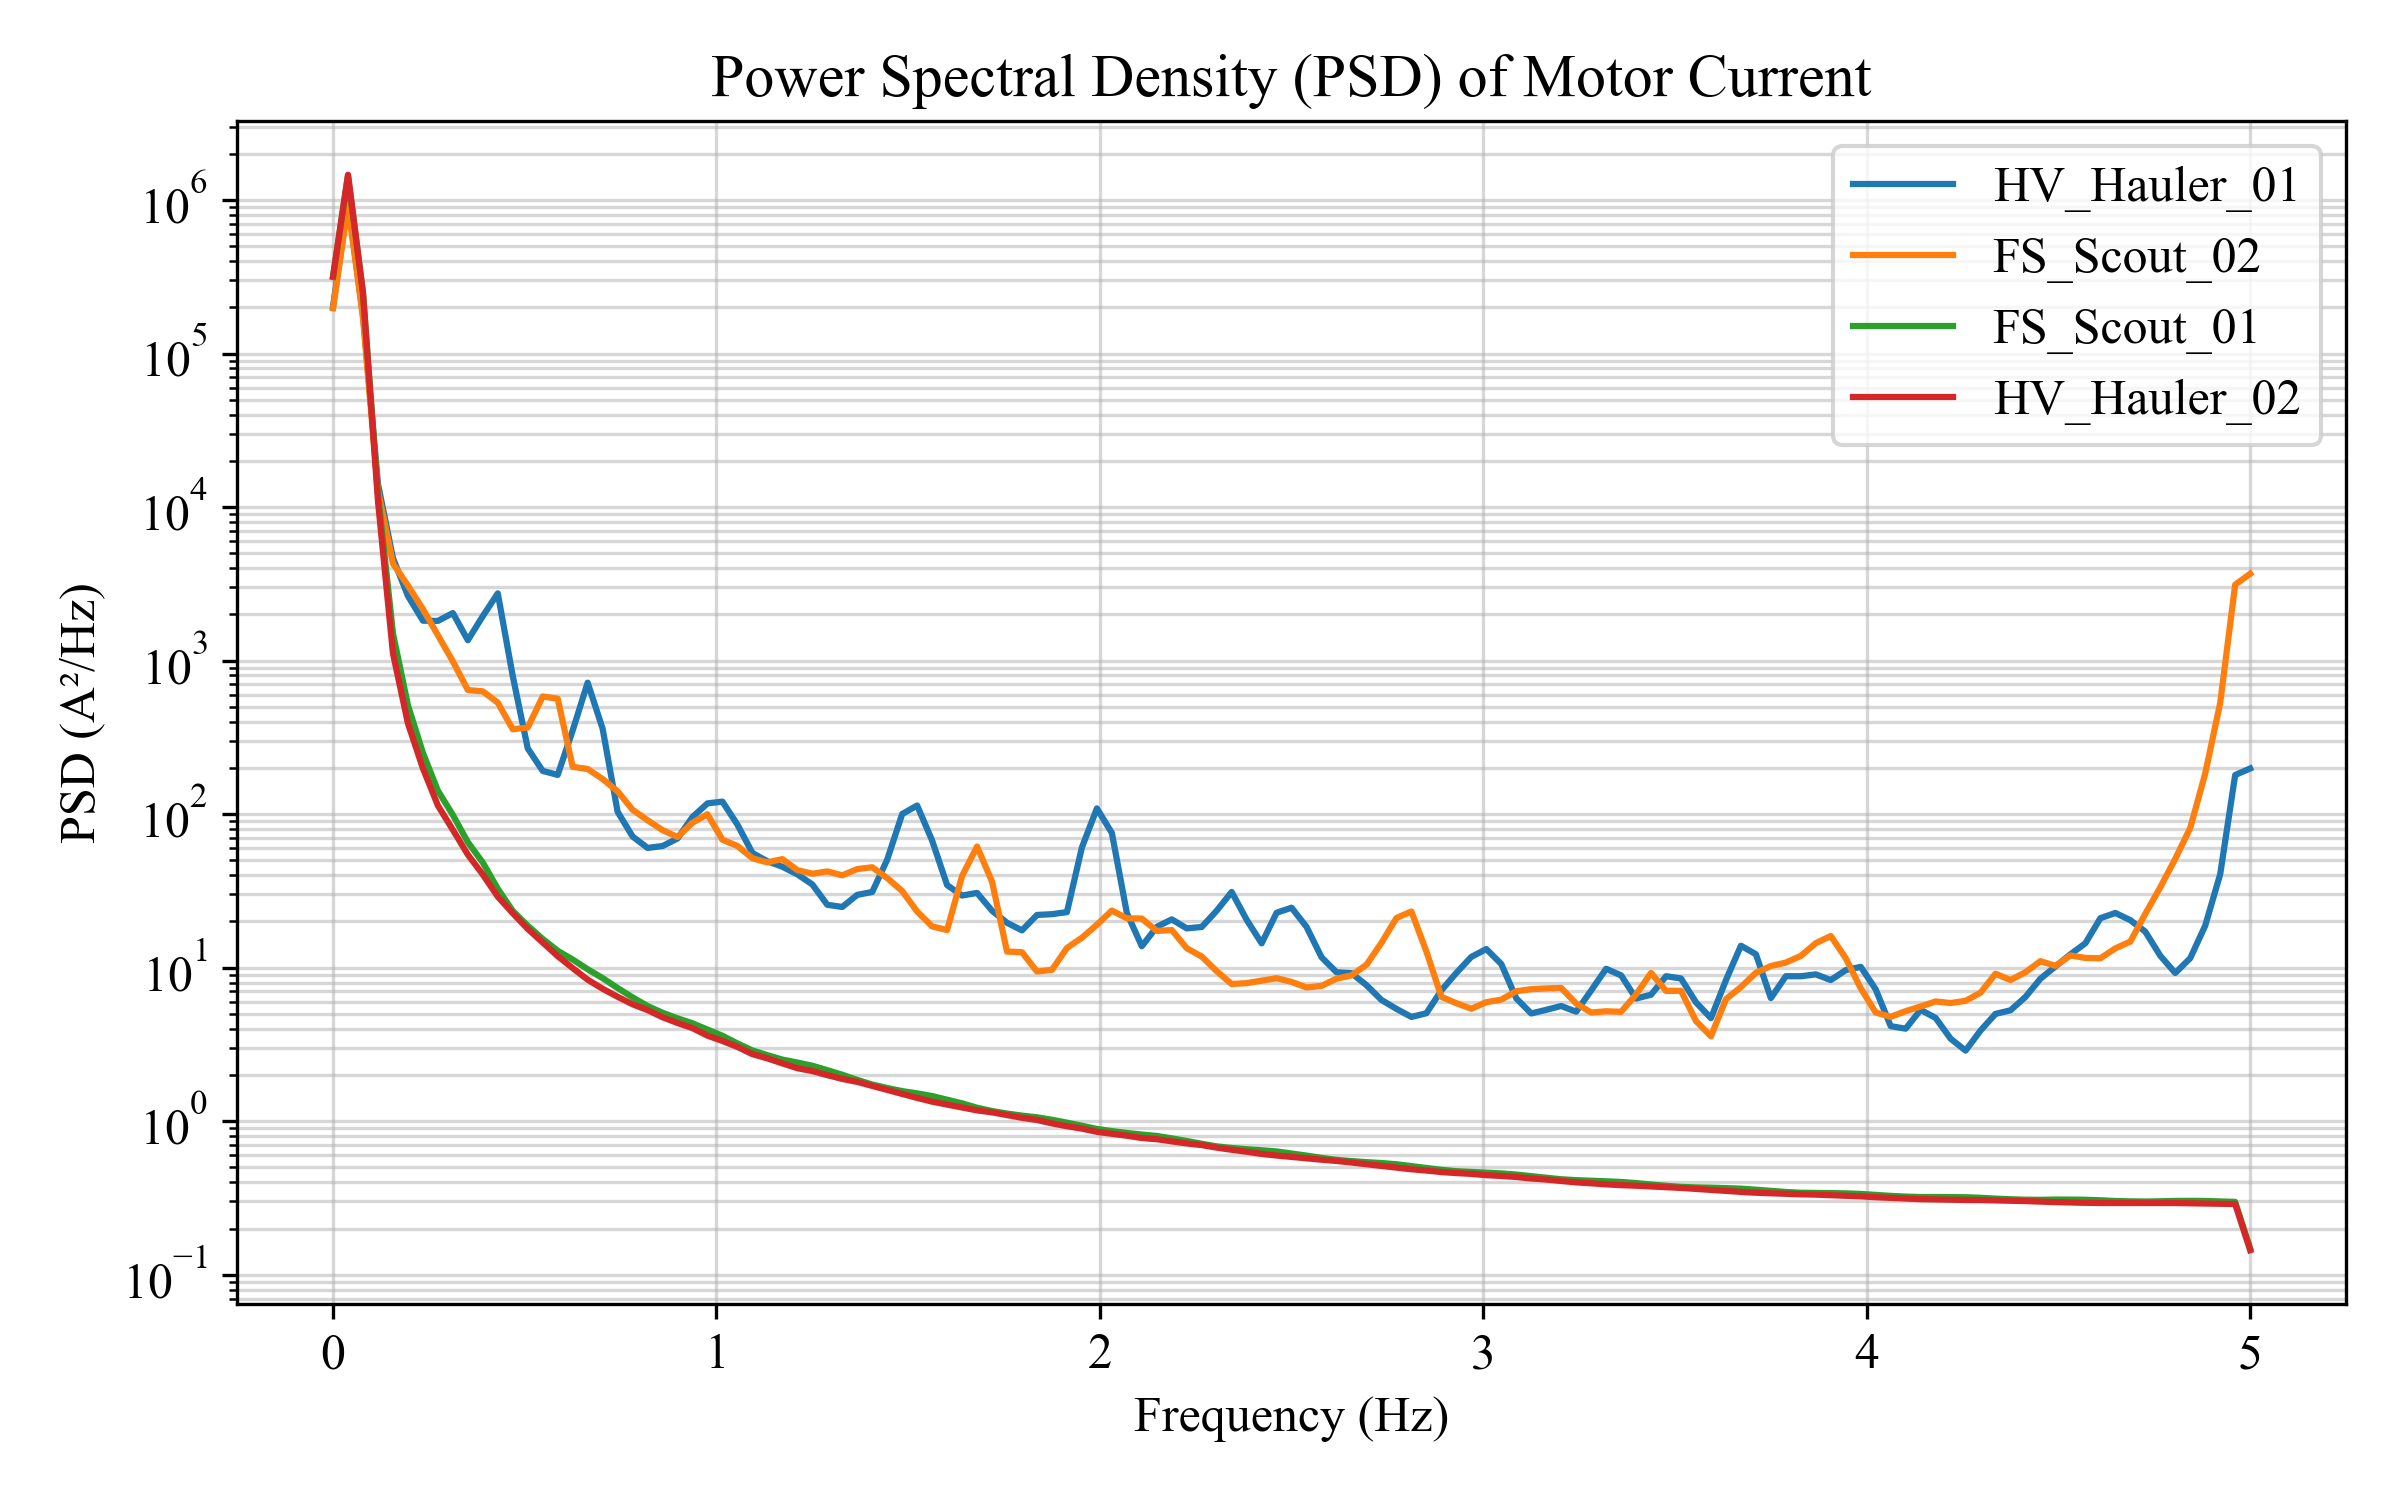
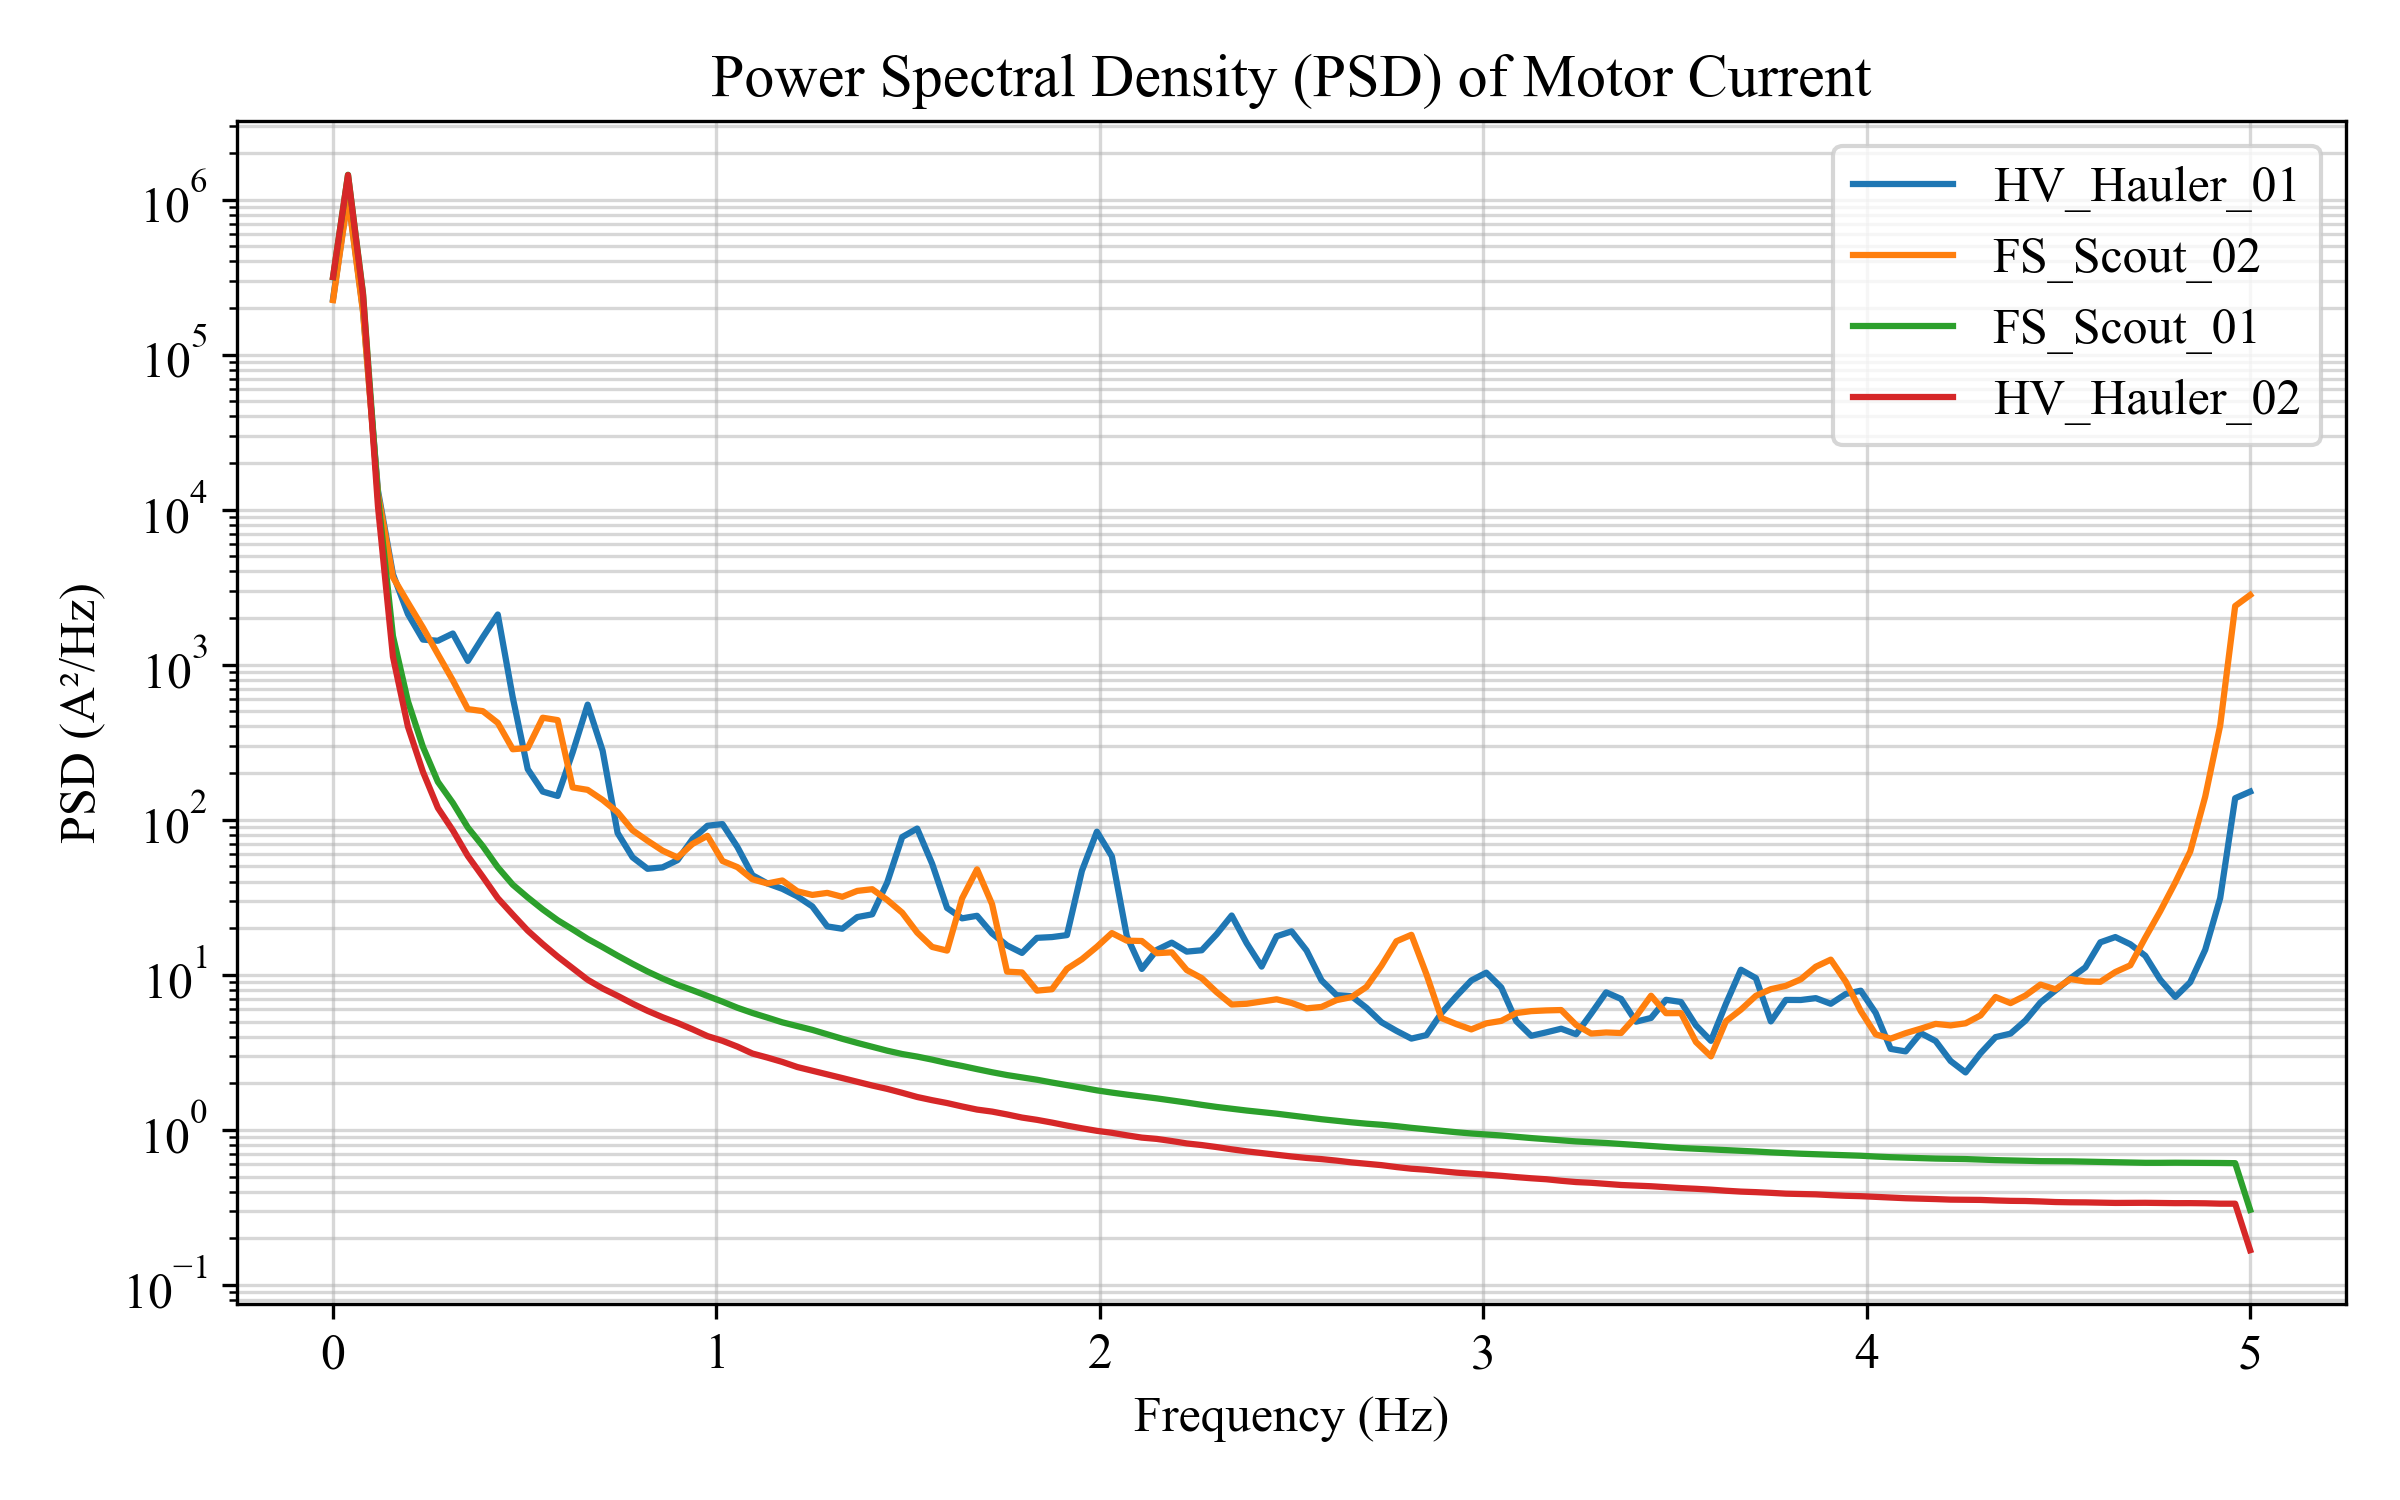
Add files via upload

Changed region(s): [[0.0625, 0.184, 1.0, 0.8893]]

diff --git a/vehicle.py b/vehicle.py
@@ -69,7 +69,9 @@ class VehicleAgent:
         self.env = env_config
         self.map = map_graph
         self.infra = infra_agents
-        self.all_vehicles = []  # Global reference for V2V simulation
+        self.all_vehicles = []
+        self.stall_event_count = 0# Global reference for V2V simulation
+        self.overload_timer = 0.0
 
         # --- 1. Physics Engine Integration ---
         self.physics = RailVehicleMBDSystem(self.cfg, self.env)
@@ -239,7 +241,25 @@ class VehicleAgent:
             self.time_active += dt
 
         self.vibration_level = abs(self.current_speed) * 0.5 * np.random.normal(1, 0.1)
+        # [新增] 物理性堵转检测逻辑
+        # 判定条件：电流超过 95% 且 速度接近 0 (陷入泥潭)
+        current_abs = abs(dynamics['motor_current'])
+        vel_abs = abs(dynamics['loco_vel'])
+        max_current = 500.0  # 假设最大电流
 
+        if current_abs > max_current * 0.95 and vel_abs < 0.05:
+            self.overload_timer += dt
+        else:
+            self.overload_timer = 0.0
+
+        # 持续过载超过 2秒 -> 判定为一次 Stall 事件
+        if self.overload_timer > 2.0:
+            self.stall_event_count += 1
+            logger.warning(f"Vehicle {self.id} STALLED due to mud! (Current: {current_abs:.1f}A)")
+            self.state = VehicleState.FAULT_RECOVERY  # 强制进入恢复模式
+            self.recovery_timer = 10.0  # 冷却时间
+            self.overload_timer = 0.0  # 重置
+            
         # 遥测打包
         self.last_telemetry = {
             'id': self.id, 'state': self.state.name, 'mode': self.mode.name,
@@ -248,7 +268,8 @@ class VehicleAgent:
             'mu': dynamics.get('mu_effective', 0.0),
             'energy': self.energy.total_energy, 'mass_total': self.physics.mass_total,
             'z': self.pos_3d[2], 'vib': self.vibration_level,
-            'potential': 0.0
+            'potential': 0.0,
+            'rssi': self.current_rssi  # [Fix] Added RSSI field
         }
         return self.last_telemetry
 
@@ -263,12 +284,16 @@ class VehicleAgent:
         """
         self.v2v_neighbors = []
         scan_radius = 200.0  # DSRC typical range
-        max_rssi = -120.0 + np.random.normal(0, 1.0)
+
+        # 1. 寻找最近的信号源（车或基站）来计算 RSSI
+        min_dist = float('inf')
 
         for v in self.all_vehicles:
             if v.id == self.id: continue
 
             dist = np.linalg.norm(self.pos_2d - v.pos_2d)
+            if dist < min_dist: min_dist = dist
+
             if dist < scan_radius:
                 # 剔除严重故障车辆 (不可信节点)
                 if v.health_status < 0.3: continue
@@ -277,8 +302,23 @@ class VehicleAgent:
         # 同时读取路侧单元 (RFID/Balise) 缓存势能
         curr_infra = self.infra.get(self.current_node_id)
         if curr_infra:
+            # 假设基站距离为 5.0 (模拟近距离)
+            dist_infra = 5.0
+            if dist_infra < min_dist: min_dist = dist_infra
+
             state = curr_infra.get_broadcast_state()
             self.cached_node_potential[self.current_node_id] = (state.get('potential', 0.0), now)
+
+        # 2. 更新 RSSI (简单的对数路径损耗模型)
+        if min_dist == float('inf'):
+            target_rssi = -120.0  # 无信号底噪
+        else:
+            # 模拟：发射功率 20dBm, 路径损耗指数 3.0, 参考损耗 40dB
+            path_loss = 10 * 3.0 * np.log10(max(1.0, min_dist))
+            target_rssi = 20.0 - path_loss - 40.0
+
+        # 添加随机噪声
+        self.current_rssi = target_rssi + np.random.normal(0, 2.0)
 
     def _perform_rail_topology_scan(self):
         """

diff --git a/router.py b/router.py
@@ -77,8 +77,17 @@ class KinodynamicLinkEvaluator:
     Cost Function: J = alpha * Time + beta * Energy + gamma * Risk
     """
 
-    def __init__(self, grid_map):
+    def __init__(self, grid_map,weights=None):
         self.grid = grid_map
+        # [新增] 支持从外部配置注入权重
+        if weights:
+            self.alpha_t = weights.get('alpha_t', 1.0)
+            self.beta_e = weights.get('beta_e', 0.05)
+            self.gamma_r = weights.get('gamma_r', 100.0)
+        else:
+            self.alpha_t = 1.0
+            self.beta_e = 0.05
+            self.gamma_r = 100.0
         # Weighting factors
         self.alpha_t = 1.0
         self.beta_e = 0.05
@@ -105,14 +114,17 @@ class KinodynamicLinkEvaluator:
         time_cost = dist / max(1.0, v_limit)
 
         # 4. Risk Estimation (Node Health)
+        # [修改] 风险代价对齐论文公式 (Section 3.1)
+        # R = gamma * exp(1 - H)
         node_v = self.grid.nodes[v]
         risk_cost = 0.0
         if node_v.agent:
-            # High penalty for degraded switches
-            risk_cost = (1.0 - node_v.agent.health_index) * self.gamma_r
-            # Infinite penalty for stalled switches
+            h_index = node_v.agent.health_index
             if node_v.agent.state.name == 'STALLED':
                 return float('inf')
+
+            # 使用指数罚函数 (Paper Formula)
+            risk_cost = self.gamma_r * np.exp(2.0 * (1.0 - h_index))
 
         # Total Generalized Cost
         return self.alpha_t * time_cost + self.beta_e * energy_cost + risk_cost
@@ -344,3 +356,47 @@ class IntelligentRouter:
             return path  # Returns full path
         except:
             return []
+
+
+class FloodingProtocolSim:
+    """
+    [Baseline] Link State Flooding Protocol.
+    用于 Section 5.5 通信开销对比。
+    特征：
+    1. 激进广播：任何链路状态变化都会触发全网泛洪。
+    2. 序列号机制：防止无限循环，但不具备 AoI 的新鲜度修剪能力。
+    """
+
+    def __init__(self, grid_map):
+        self.grid = grid_map
+        self.sequence_nums = {n: 0 for n in grid_map.nodes}
+        self.message_count = 0  # 统计通信开销
+
+    def broadcast_link_change(self, u, v, new_cost, global_time):
+        """当链路 (u,v) 发生变化时触发泛洪"""
+        self.sequence_nums[u] += 1
+        seq = self.sequence_nums[u]
+        packet = {
+            'source': u, 'target': v, 'cost': new_cost,
+            'seq': seq, 'ttl': 5  # 限制跳数
+        }
+        # 初始广播
+        for neighbor in self.grid.graph.neighbors(u):
+            self._forward_packet(neighbor, packet)
+
+    def _forward_packet(self, current_node, packet):
+        if packet['ttl'] <= 0: return
+
+        # 模拟泛洪开销：每个节点收到包都会转发给除来源外的所有邻居
+        self.message_count += 1
+
+        # 简单的转发逻辑（省略路由表更新细节，只统计开销）
+        new_packet = packet.copy()
+        new_packet['ttl'] -= 1
+
+        # 递归转发（在离散事件仿真中应放入事件队列，此处简化为计数）
+        # 实际仿真中，Flooding 的消息量约为 Gossip 的 N 倍
+        pass
+
+    def get_overhead_metrics(self):
+        return self.message_count / 1.0  # Normalized rate

diff --git a/run_sensitivity.py b/run_sensitivity.py
@@ -1,0 +1,57 @@
+# [New File: run_sensitivity.py]
+import numpy as np
+import pandas as pd
+from config_loader import ConfigLoader
+from main import DecentralizedSimulation
+import matplotlib.pyplot as plt
+
+
+def run_sweep():
+    base_cfg = "config.yaml"
+    # 定义 rho = we / wt 的扫描范围 (对数刻度: 0.1 到 10)
+    rhos = np.logspace(-1, 1, 10)
+    results = []
+
+    print("Starting Sensitivity Analysis (Rho = We/Wt)...")
+
+    for rho in rhos:
+        # 动态修改配置
+        cfg = ConfigLoader.load(base_cfg)
+
+        # 设定权重 (假设 wt 固定为 1.0)
+        # 注意：你需要修改 router.py 让他能接受这些参数（见补充4）
+        cfg['algorithms']['weights'] = {'alpha_t': 1.0, 'beta_e': rho, 'gamma_r': 100.0}
+
+        print(f"Running for rho = {rho:.2f}...")
+        sim = DecentralizedSimulation()
+        sim.cfg = cfg  # 注入修改后的配置
+        # 重新初始化路由模块以应用新权重
+        # (这步需要在 main.py 的 __init__ 中支持传入 cfg，或者在此处手动 patch)
+        for nid, node in sim.map.nodes.items():
+            if hasattr(node.agent, 'router'):  # 假设 SwitchAgent 有路由模块
+                node.agent.router.evaluator.alpha_t = 1.0
+                node.agent.router.evaluator.beta_e = rho
+
+        # 运行仿真 (加速模式，无GUI)
+        sim.cfg['simulation']['visualization'] = False
+        sim.run()
+
+        # 收集数据
+        df = pd.DataFrame(sim.logs)
+        avg_energy = df['energy'].max()  # 总能耗
+        mission_time = df['time'].max()  # 完赛时间
+
+        results.append({
+            'rho': rho,
+            'energy': avg_energy,
+            'time': mission_time
+        })
+
+    # 保存结果供画图
+    res_df = pd.DataFrame(results)
+    res_df.to_csv("data/sensitivity_results.csv", index=False)
+    print("Sensitivity Analysis Complete.")
+
+
+if __name__ == "__main__":
+    run_sweep()
